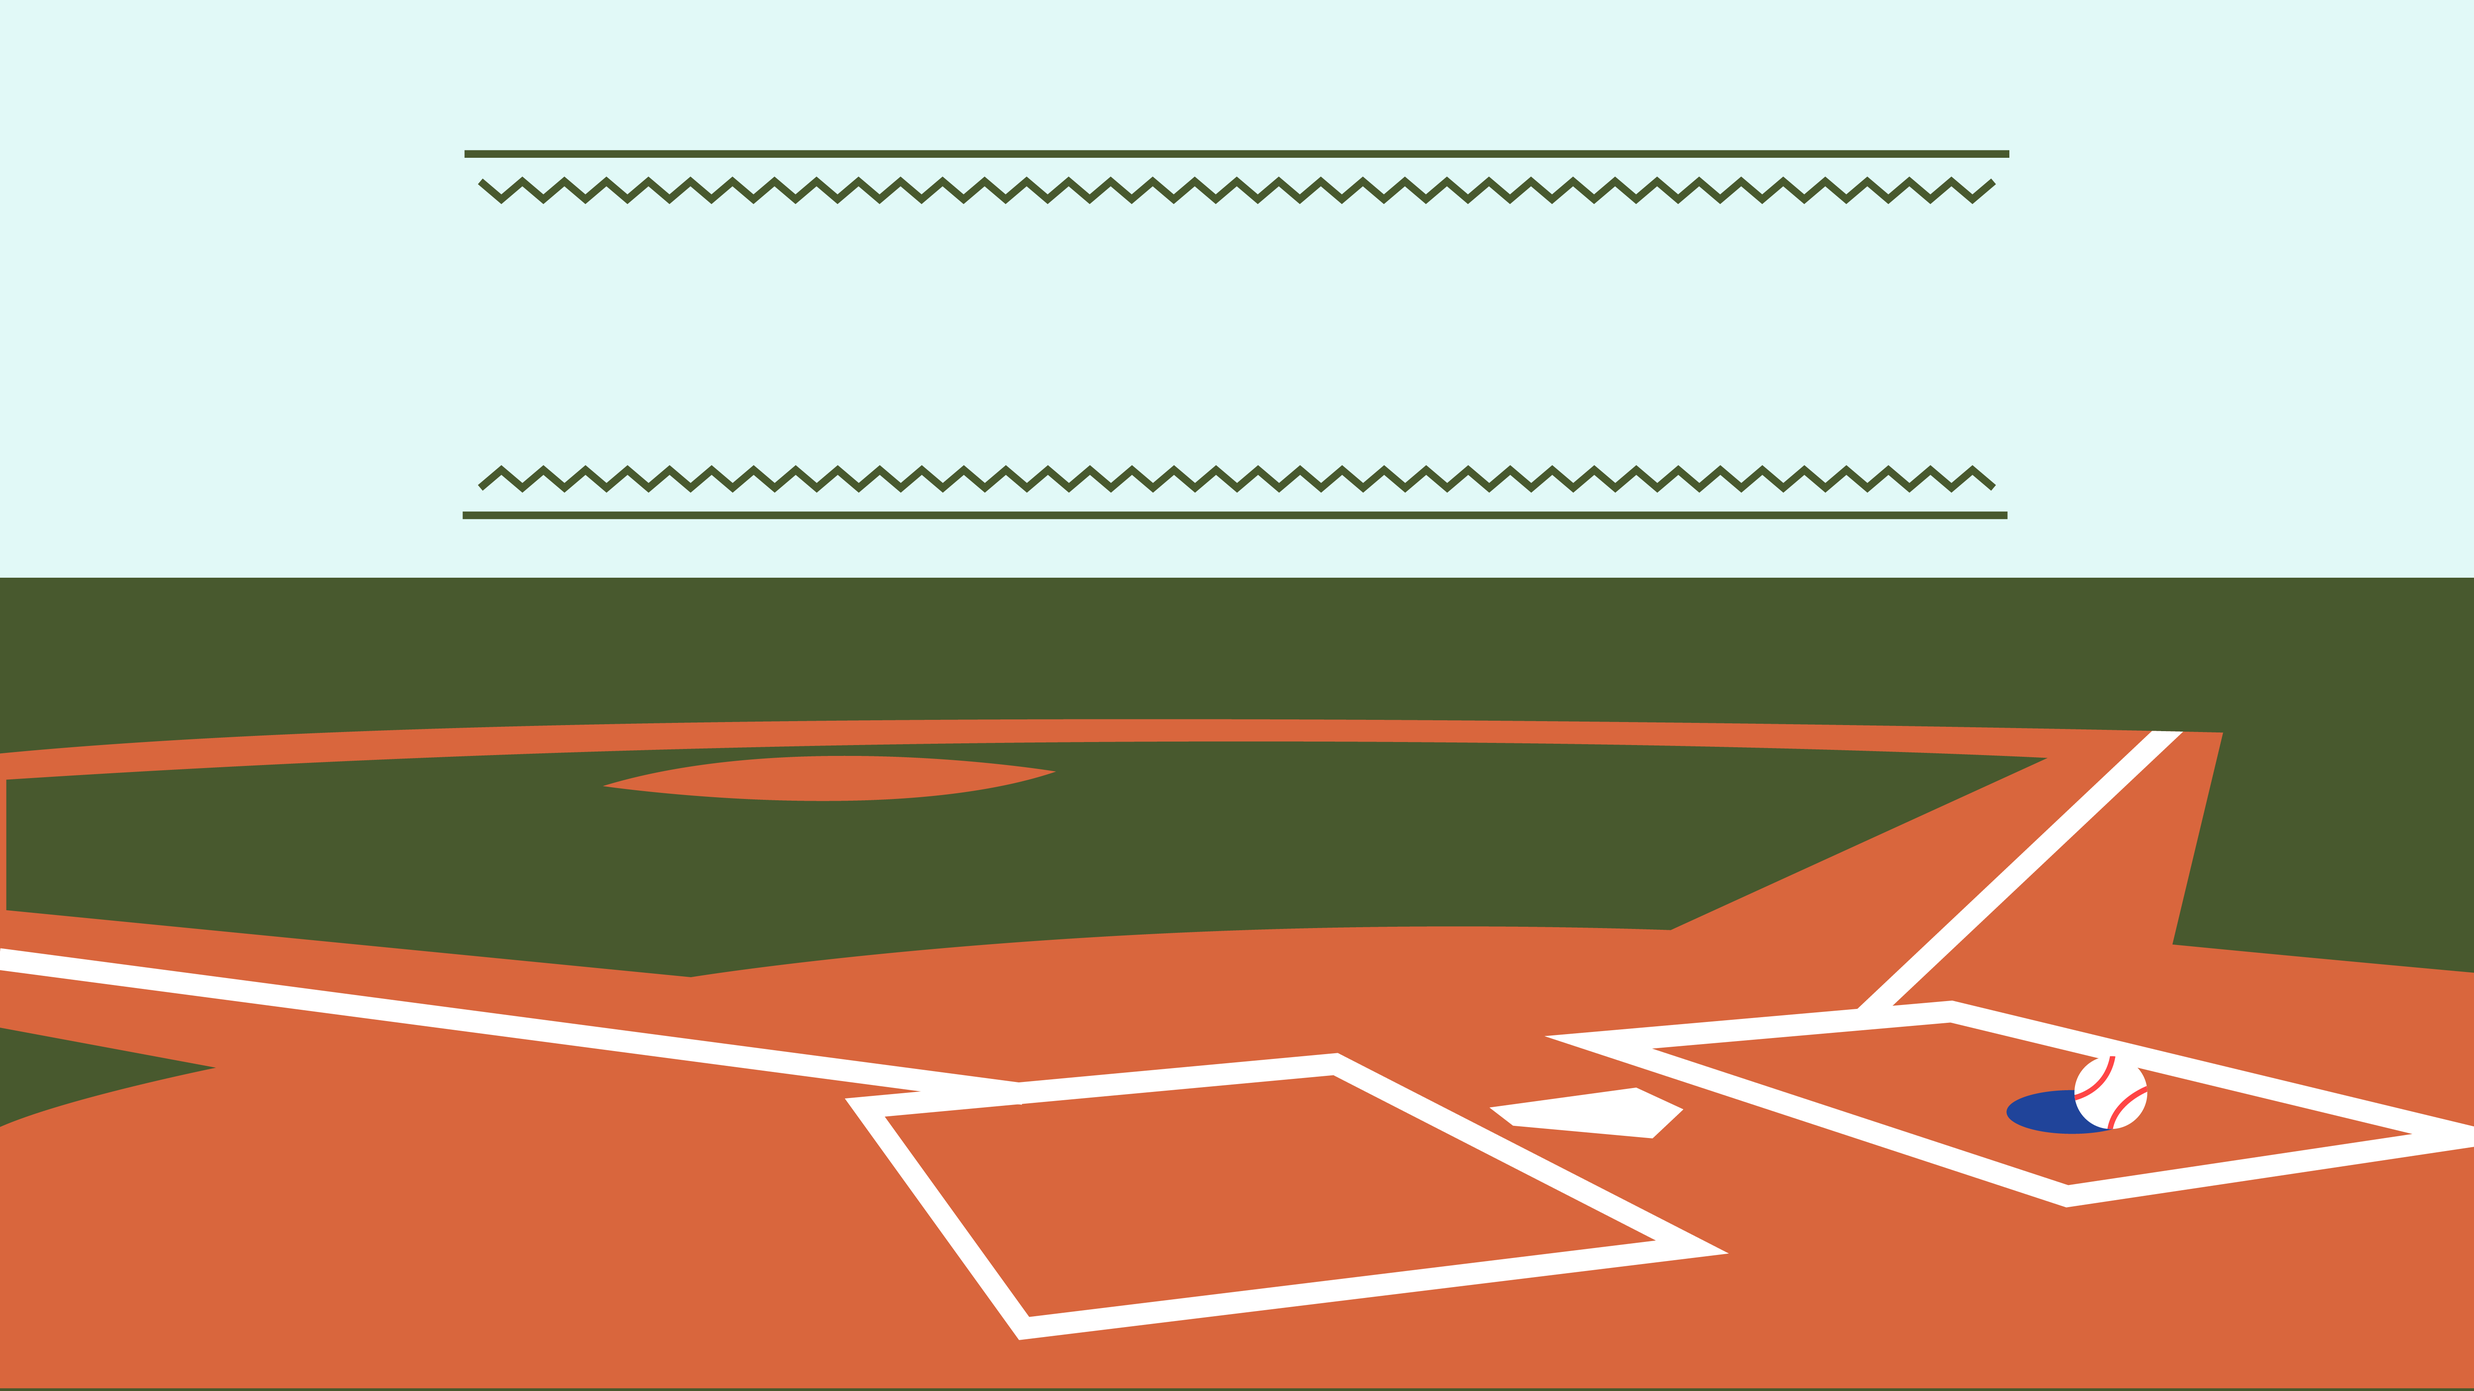
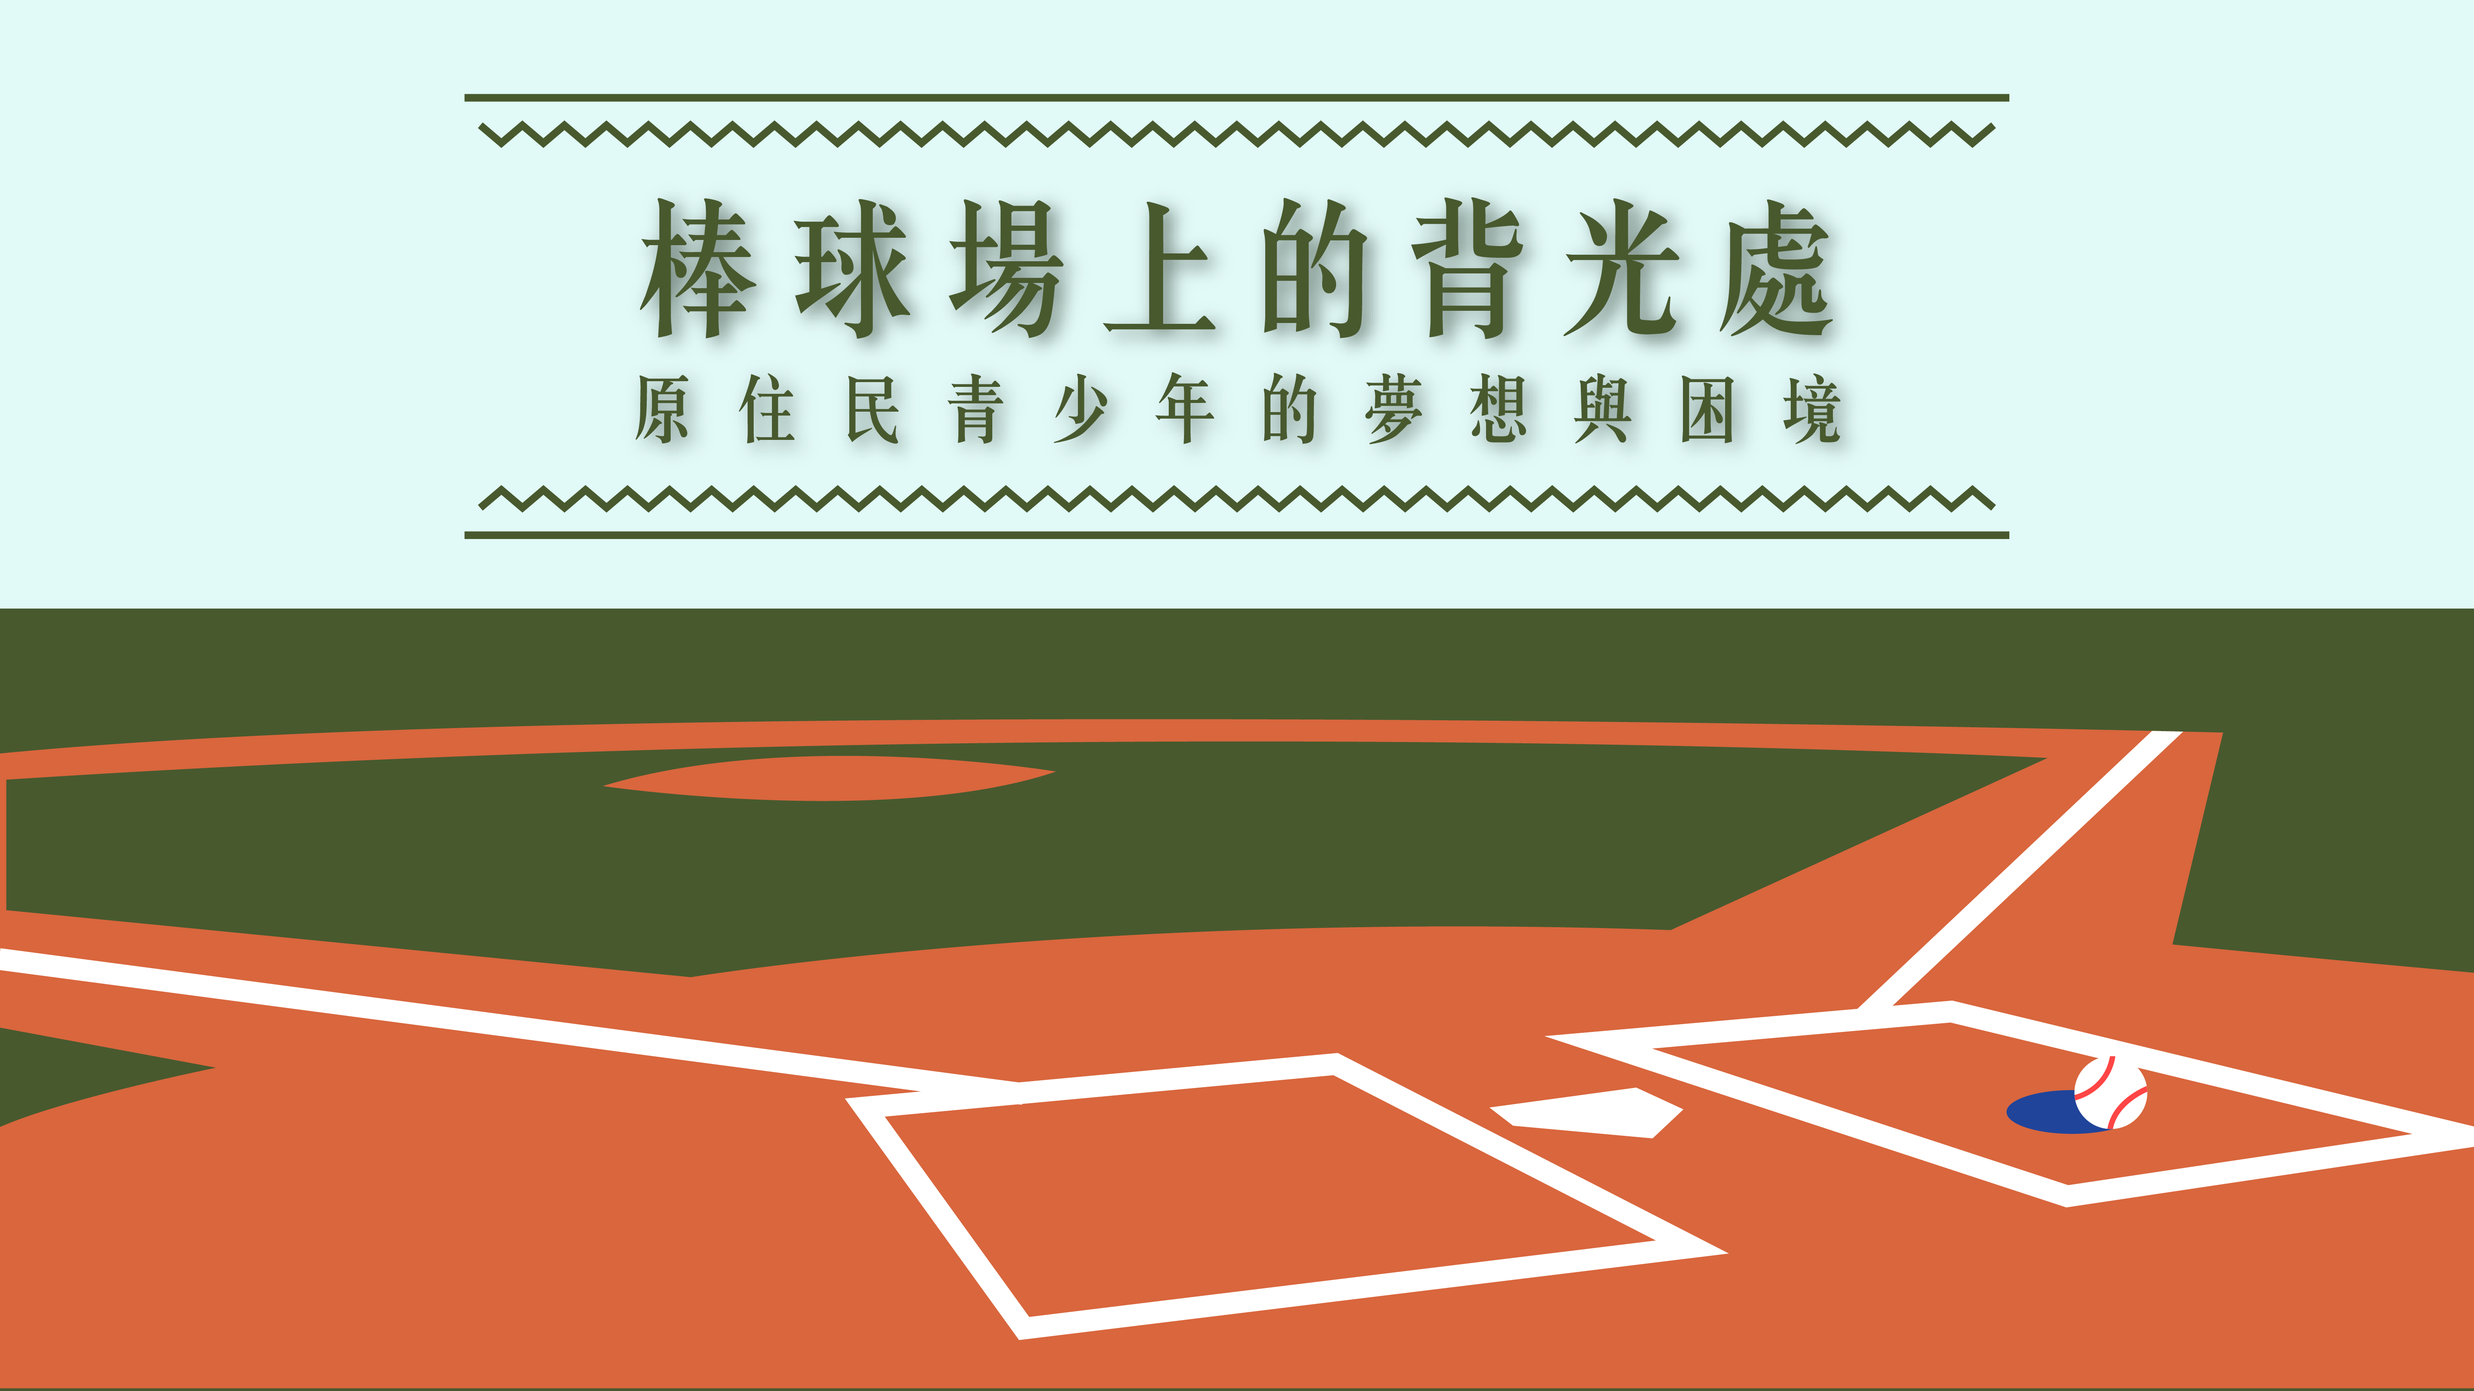
遊戲&一點內文
1.新增遊戲結尾
2.新增一些圖片
3.調整一些圖片畫質
4.新增封面圖

Changed region(s): [[0.0, 0.0625, 1.0, 0.4375]]

diff --git a/merging.html b/merging.html
@@ -33,7 +33,7 @@
             background-attachment: fixed;
             background-position: center;
             background-repeat: no-repeat;
-            background-size: cover;
+            background-size: 100% 100%;
             height: 100vh;
         }
 
@@ -41,6 +41,12 @@
             -webkit-filter: drop-shadow(-12px 12px 7px #252e18ea);
             filter: drop-shadow(-12px 12px 7px #252e18ea)
         }
+
+        .bottom-shadow {
+            -webkit-filter: drop-shadow(0px 12px 7px #000000e0);
+            filter: drop-shadow(0px 12px 7px #000000e0)
+        }
+
 
         .buffer {
             min-height: 20vh;
@@ -53,12 +59,9 @@
 
 <body data-spy="scroll" data-target="#nav" data-offset="0">
 
-    <!--
+    
     <section id="lifegame">
         <div id="cover" class="container-fluid bkgStyle">
-            <div class="cover-head text-center left-shadow">
-                <h1># 原住民與棒球</h1>
-            </div>
             <div class="cover-btn text-center left-shadow">
                 <div id="start">- Start the game -<br><b>開始遊戲</b></div>
                 <div id="skip" style="margin-top: 5vh;">- Jump to the Report -<br><b>跳過看內文</b></div>
@@ -70,26 +73,32 @@
                 <img id="left-ppl" class="left-shadow" src="">
                 <img id="md-ppl" src="">
             </div>
-            <div class="container dialogue">
+            <div class="container dialogue" id="dialogue_">
                 <div id="textStory" class="row" style="height: 22vh; padding: 1.2em;"></div>
                 <div id="buttonClick" class="row" style="display: none">
                     <button id="chooseA" onclick="nextStage(1)" class="btn col-md-3 offset-md-2 col-sm-12"></button>
                     <button id="chooseB" onclick="nextStage(0)" class="btn col-md-3 offset-md-2 col-sm-12"></button>
                 </div>
                 <div id="nextClick" class="col text-center" style="position: absolute; bottom: 2vh;">- click -</div>
-
             </div>
         </div>
     </section>
 
     <div id="report" style="display: none;">
--->
-
-    <section id='cover'>
-        <div class="container-fluid" style="min-height: 150vh;background-color: #DCF2EE;">
-
+        <div class="bkgStyle" style="background-image: url('assets/bkg2.jpg')">
+            <div id="ending" class="col-md-4 offset-md-4 text-center">
+                <img src="assets/end.gif" style="margin-bottom: 5vh;">
+                <h3 style="color:black">小賴的棒球路到此告了一個段落</h3>
+                <div class="vl"></div>
+            </div>
         </div>
 
+    <section id='cover'>
+        <div class="container-fluid" style="min-height: 120vh;background-color: #DCF2EE;">
+            <div class="col-md-4 offset-md-4 text-center">
+                <h3 style="color:black ;padding-top:60vh;">而球場外還有更多的例子</h3>
+                <div class="v2"></div>
+        </div>
     </section>
 
     <div id="nav" class="list-group" style="position:fixed">
@@ -157,21 +166,21 @@
             </div>
 
             <div class="row">
-                <div class="col-sm-2"></div>
-                <div class="col-sm-4 container reason1" style="height: 70vh;z-index: 3;background-color: #DCF2EE;text-align:center">
+                <div class="col-md-4 offset-md-2 container reason1" style="height: 70vh;z-index: 3;background-color: #DCF2EE;text-align:center">
                     <div class='buffer'></div>
                     <h3>先天優勢</h3><br>
                     <p style="text-align:left">不可否認的，先天的優勢讓原住民成為運動場上的佼佼者，
                         他們在運動方面有著驚人的協調性與爆發力，也成為他們大量投入的契機與原因。
                     </p>
                 </div>
-                <div class="col-sm-6"><img id='color1' src="assets/color1.png"></div>
+                <div class="col-6"><img id='color1' src="assets/color1.png"></div>
             </div>
             
 
                 <div class='buffer'></div>
                 <div class="row">
-                    <div class="col-sm-6"><img id='sketch1' src="assets/sketch1.png">
+                    <div class="col-6">
+                        <img id='sketch1' class="img-fluid" src="assets/sketch1.png">
                     </div>
                     <div class="col-sm-5 container reason2" style="min-height: 100vh;z-index: 3;background-color: #DCF2EE;text-align:center">
                         <h3>社會風氣</h3>
@@ -301,39 +310,29 @@
 
 
             <div class='buffer'></div>
-            <div class="row" style="min-height: 30vh">
-                <div class="col-sm-3"></div>
-                <div class="col-sm-6">
-                    <h2>經濟考量</h2>
-                    <h3>「我想要在大學繼續打棒球，看到上大學的隊友限時動態都在po我都很羨慕，但家裡經濟狀況不允許。」</h3>
-                    <br><br>
-                    <p>大多數原住民家中的經濟情況並不是很好，參加體育班對這群孩子的父母來說也是個負擔，因此若在高中沒有打出亮眼的成績，他們大多都會選擇放棄繼續打棒球，轉而走進一般的升學體制或是直接工作。即便錄取大學，大學昂貴的學費以及對家裡經濟的擔憂與責任，也都成為了無法破除的阻礙。</p>
-                </div>
-                <div class="col-sm-3"></div>
-            </div>
+            <div class="col-sm-12 col-md-10 offset-1">
+                <div class="row">
+                    <div class="col-sm-12 col-md-4">
+                        <h2>經濟考量</h2>
+                        <h3>「我想要在大學繼續打棒球，看到上大學的隊友限時動態都在po我都很羨慕，但家裡經濟狀況不允許。」</h3>
+                        <br><br>
+                        <p>大多數原住民家中的經濟情況並不是很好，參加體育班對這群孩子的父母來說也是個負擔，因此若在高中沒有打出亮眼的成績，他們大多都會選擇放棄繼續打棒球，轉而走進一般的升學體制或是直接工作。即便錄取大學，大學昂貴的學費以及對家裡經濟的擔憂與責任，也都成為了無法破除的阻礙。</p>
+                    </div>
 
-            <div class='buffer'></div>
-            <div class="row" style="min-height: 30vh">
-                <div class="col-sm-3"></div>
-                <div class="col-sm-6">
-                    <h2>身體狀況</h2>
-                    <h3>「高中時，投手教練為了球速調動作的過程，身體開始有了些傷勢。有看過中西醫，西醫要求做核磁共振，但家人覺得太麻煩就不治療了。」</h3>
-                    <br><br>
-                    <p>大量以及高強度的訓練也讓他們身上受了傷，不利於選秀以及比賽，對其表現更產生巨大的影響，也因為缺乏金錢接受更進一步的治療。</p>
+                    <div class="col-sm-12 col-md-4">
+                        <h2>身體狀況</h2>
+                        <h3>「高中時，投手教練為了球速調動作的過程，身體開始有了些傷勢。有看過中西醫，西醫要求做核磁共振，但家人覺得太麻煩就不治療了。」</h3>
+                        <br><br>
+                        <p>大量以及高強度的訓練也讓他們身上受了傷，不利於選秀以及比賽，對其表現更產生巨大的影響，也因為缺乏金錢接受更進一步的治療。</p>
+                    </div>
+                    <div class="col-sm-12 col-md-4">
+                        <h2>未來發展機會</h2>
+                        <h3>「大學的競爭更激烈，我高中的比賽成績沒有很好，不太可能打到更上面。家人也覺得我應該要去讀一些有用的科系，打棒球之後如果沒有用到就只會花錢，不如不要讀了。」</h3>
+                        <br><br>
+                        <p>雖然棒球已為台灣體壇中發展的較為成熟的一項運動，但出路仍然極為有限、加入職棒的機率並不高。職棒每年招收約30到50個新人球員，光是從棒球大專校隊畢業的應屆學生就超過250人，競爭非常激烈。環境的不成熟加上僧多粥少的情況，也讓他們以棒球為志向的人生有了不一樣的變化。</p>
+                    </div>
                 </div>
-                <div class="col-sm-3"></div>
-            </div>
-
-            <div class='buffer'></div>
-            <div class="row" style="min-height: 30vh">
-                <div class="col-sm-3"></div>
-                <div class="col-sm-6">
-                    <h2>未來發展機會</h2>
-                    <h3>「大學的競爭更激烈，我高中的比賽成績沒有很好，不太可能打到更上面。家人也覺得我應該要去讀一些有用的科系，打棒球之後如果沒有用到就只會花錢，不如不要讀了。」</h3>
-                    <br><br>
-                    <p>雖然棒球已為台灣體壇中發展的較為成熟的一項運動，但出路仍然極為有限、加入職棒的機率並不高。職棒每年招收約30到50個新人球員，光是從棒球大專校隊畢業的應屆學生就超過250人，競爭非常激烈。環境的不成熟加上僧多粥少的情況，也讓他們以棒球為志向的人生有了不一樣的變化。</p>
-                </div>
-                <div class="col-sm-3"></div>
+                <div class='buffer'></div>
             </div>
 
         </div>
@@ -393,7 +392,7 @@
             </div>
         </div>
     </section>
-
+</div>
     <script src="https://code.jquery.com/jquery-3.3.1.js"></script>
     <script type="text/javascript" src="http://ajax.googleapis.com/ajax/libs/jqueryui/1.12.1/jquery-ui.min.js"></script>
     <script src="https://cdnjs.cloudflare.com/ajax/libs/popper.js/1.14.3/umd/popper.min.js" integrity="sha384-ZMP7rVo3mIykV+2+9J3UJ46jBk0WLaUAdn689aCwoqbBJiSnjAK/l8WvCWPIPm49" crossorigin="anonymous"></script>
@@ -541,6 +540,11 @@
             $("#report").show();
         });
 
+        function gameEND(){
+            $("#game").hide();
+            $("#report").show();
+        };
+
         function nextStep() {
             var main = mainStage.toString();
             var maxStory = textStories[main].length;
@@ -551,8 +555,11 @@
             } else if (subStage == maxStory) {
                 subStage = 99;
                 if (main == '5') {
-                    $("#game").hide();
-                    $("#report").show();
+                    $("#left-ppl").fadeOut(1500);
+                    $("#dialogue_").fadeOut(1500);
+                    setTimeout(gameEND, 2000);
+                    // $("#game").hide();
+                    // $("#report").show();
                 } else {
                     $("#buttonClick").show();
                     $("#nextClick").hide();

diff --git a/js/game.js b/js/game.js
@@ -19,7 +19,7 @@ textStories = {
 "5" : ["教練：你把這個錢拿來繳隊費比較實在啦！或是報體保阿，幹嘛報名，浪費錢。",
     "因為練球身體有了傷勢，高中打球的成績也沒特別好，哥哥說這樣根本就不能成為職棒選手。",
     "家裡的經濟不好，沒辦法繼續支撐我打棒球，爸媽也覺得應該要去讀有用一點的科系……",
-      "我還是放棄好了……"],}
+      "我還是放棄好了……"]}
 
 images = {"lai": "assets/lai.png", "lai2": "assets/lai2.png", "lai3": "assets/lai3.png", "lai4": "assets/lai4.png", "lai5": "assets/lai5.png",
           "friend": "assets/friend.png", "senpai": "assets/senpai.png", "senpai2": "assets/senpai2.png", "coach": "assets/coach.png"}
@@ -36,7 +36,7 @@ function imageChange(main, sub){
         } else if(sub == 1){
             imageM.src = "";
             imageL.src = images["lai2"];
-        } else if(sub == 3){
+        } else if(sub == 2){
             imageL.src = images["lai4"];
             $("#game").css("background-image", "url(assets/bkg2.jpg)");
         };

diff --git a/css/style.css b/css/style.css
@@ -113,6 +113,9 @@ body #lifegame {
     }
   }
 
+#ending{
+    padding-top:15vh;
+}
 
 h3{
     font-size: 2em;
@@ -120,3 +123,23 @@ h3{
     line-height: 1.5;
     color: #2450A6;
 }
+
+.vl {
+    border-left: 6px solid rgb(0, 0, 0);
+    height: 85vh;
+    position: absolute;
+    left: 50%;
+    margin-left: -3px;
+    top: 70vh;
+    z-index: 2;
+  }
+
+.v2 {
+    border-left: 6px solid rgb(0, 0, 0);
+    height: 55vh;
+    position: absolute;
+    left: 50%;
+    margin-left: -3px;
+    top: 70vh;
+    z-index: 2;
+  }

diff --git a/index.html b/index.html
@@ -22,9 +22,10 @@
 
 
 <body>
-    <div class="text-center">
+    <div class="text-center" style="padding-top: 30vh;">
         <h2>這是109_1網頁敘事與設計期末專案<br>
             作者：郭芷沄、林哲維、蔡葉蓉</h2>
+            <a href="https://kuog1030.github.io/web109/merging.html">點我看報導</a>
     </div>
 
     <script>

diff --git a/css/mywork.css b/css/mywork.css
@@ -102,9 +102,7 @@ p {
 }
 
 #sketch1{
-    width: 550px;
-    margin-left: 80px;
-    margin-top: 150px;
+    padding: 3vw;
 }
 
 #fullpage_2 {
@@ -132,4 +130,9 @@ sticky-top fadeout{
 #pie2{
     width: 40vw;
     display: none;
+}
+
+h4{
+    font-size: 1.8em;
+    font-weight: 800;
 }
